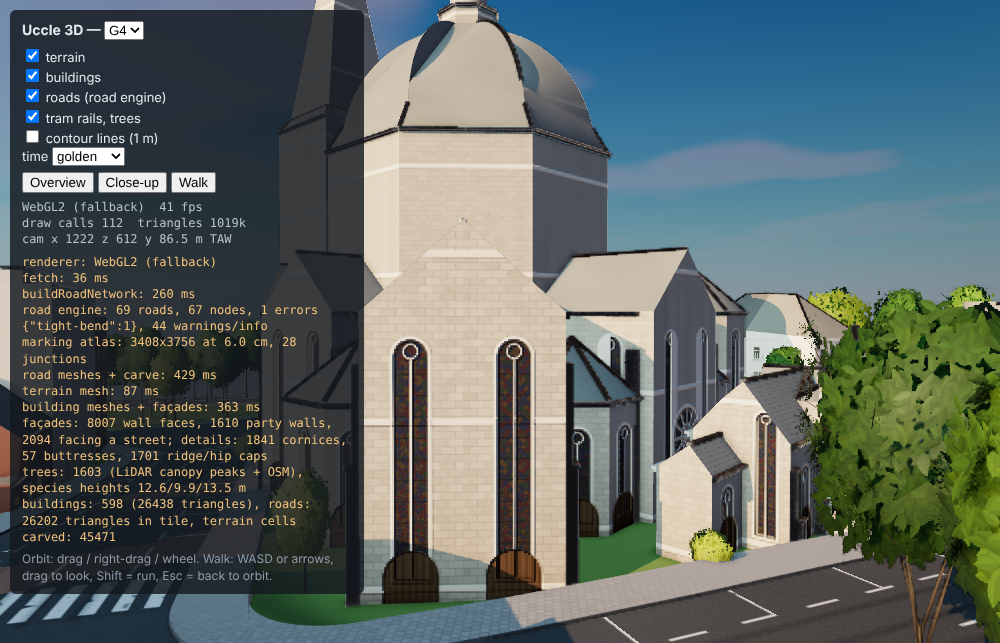
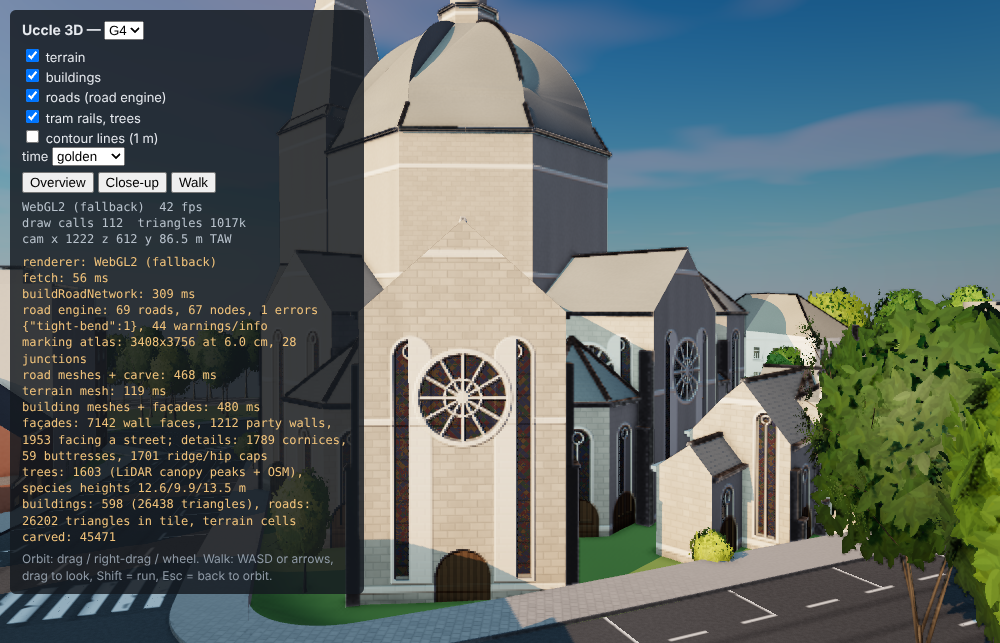
Merge coplanar wall faces; church rose window on the main front, placed high in the gable
Claude-Session: https://claude.ai/code/session_017uqA5oYspyvsgJQSxLERkX

diff --git a/viewer/facades.js b/viewer/facades.js
@@ -253,8 +253,26 @@ export function analyseBuildings(doc, buf, roads) {
       if (!faces.has(k)) faces.set(k, { tris: [], nx: nx / h, nz: nz / h });
       faces.get(k).tris.push({ p, n: tri.n, src: tri });
     }
+    // merge faces of one plane split by the key rounding (same direction within ~3°, offset within 0.3 m,
+    // touching along the face): a gable front must be ONE face so its openings are laid out once
+    const fl = [...faces.values()];
+    for (const f of fl) {
+      const tx = -f.nz, tz = f.nx;
+      let u0 = Infinity, u1 = -Infinity, dd = 0, k = 0;
+      for (const { p } of f.tris) for (const q of p) { const uu = q[0] * tx + q[2] * tz; u0 = Math.min(u0, uu); u1 = Math.max(u1, uu); dd += q[0] * f.nx + q[2] * f.nz; k++; }
+      f.u0 = u0; f.u1 = u1; f.d = dd / k;
+    }
+    for (let i = 0; i < fl.length; i++) {
+      const a = fl[i]; if (a.dead) continue;
+      for (let j = i + 1; j < fl.length; j++) {
+        const c = fl[j]; if (c.dead) continue;
+        if (a.nx * c.nx + a.nz * c.nz < 0.9985 || Math.abs(a.d - c.d) > 0.3) continue;
+        if (c.u0 > a.u1 + 0.15 || a.u0 > c.u1 + 0.15) continue;
+        a.tris.push(...c.tris); a.u0 = Math.min(a.u0, c.u0); a.u1 = Math.max(a.u1, c.u1); c.dead = true; j = i;   // rescan
+      }
+    }
     const ownRing = b.footprint[0];
-    for (const f of faces.values()) {
+    for (const f of fl.filter((q) => !q.dead)) {
       // outward: a point 0.5 m along the normal must be outside the building's own footprint
       {
         let mx = 0, mz = 0, k = 0;
@@ -601,7 +619,7 @@ export function wallMaterial() {
   const bwL = fw.div(nbL);
   const lxC = u.sub(fw.mul(0.5)).toVar();                                       // from the middle of the face
   const roseFace = street.mul(step(float(10.0), eh)).mul(float(1).sub(step(float(6.1), style))).mul(step(float(4.5), fw)).toVar();
-  const R = min(min(float(1.7), fw.mul(0.2)), min(eh.sub(1.5), float(13.4)).sub(4.6).sub(0.9).mul(0.5)).toVar();
+  const R = min(min(float(2.1), fw.mul(0.21)), min(eh.sub(1.5), float(13.4)).sub(4.6).sub(0.9).mul(0.5)).toVar();
   const roseBay = roseFace.mul(step(float(0.6), R)).mul(step(abs(lxC), R.add(0.45))).toVar();   // lancets give way to the rose
   const lx = fract(u.div(bwL)).sub(0.5).mul(bwL).toVar();
   const hwL = mix(min(float(0.7), bwL.mul(0.21)), min(float(0.8), fw.mul(0.17)), tower).toVar();
@@ -663,7 +681,7 @@ export function wallMaterial() {
   lmCol = mix(lmCol, wood, portal);
   lmH = lmH.sub(portal.mul(0.3));
   // rose window above the portal: 12 spokes, an inner ring, a hub, a moulded surround; glass set back by parallax
-  const cyR = pTop.add(0.7).add(R).toVar();
+  const cyR = max(pTop.add(0.7).add(R), min(eh.sub(1.5), float(13.4)).sub(R).sub(0.6)).toVar();   // high in the gable, clear of the portal
   const roseOk = roseFace.mul(lmOk).mul(step(float(0.6), R)).toVar();
   const rr = length(vec2(lxC, h.sub(cyR))).toVar();
   const aaR = fwidth(rr).add(0.003);

diff --git a/docs/PLAN.md b/docs/PLAN.md
@@ -370,9 +370,11 @@ modular kits**, and real data only decides **which material goes where**.
    above the portal on wide street faces, louvred belfry openings on tower solids
    (landmark solids under 11 m across and over 16 m tall, style 6.25).
    Screenshot `docs/img/viewer-G4-church-front.png`.
-   **Next for the church:** the front gable of Saint-Job is split into two UrbIS faces,
-   so it gets two lancets and two portals instead of the rose: merge coplanar
-   neighbouring faces of a landmark before placing openings; check materials against a photo.
+   Coplanar wall faces split by the grouping's rounding are now merged (all buildings;
+   G4 8,007 → 7,142 faces), so the Saint-Job front is one face: one portal, the rose
+   window high in the gable, lancets either side.
+   **Next for the church:** check materials against a photo; the drum and dome could
+   use their own windows (oculi) and lantern detail.
 
 3. **Ground materials.** UrbIS **Land cover** (CC0, same 1 km sheets) plus OSM
    areas say where grass, garden, paving, water and woodland are. Tiling grass,

diff --git a/HANDOFF.md b/HANDOFF.md
@@ -40,8 +40,8 @@ Pipeline (raw data must be fetched first, see README): `python pipeline/run_tile
 1. **Check on a real GPU (WebGPU)** in a browser: performance with all trees (1,600 per tile,
    47k total), the night-window speckle seen in software rendering, buttress/cornice look.
 2. **Church**: done: deep (parallax) openings, tracery, rose window, belfry louvres,
-   buttresses, ribs. Left: merge the split front-gable faces so the rose window lands on
-   the main front (see PLAN), compare materials with a photo of Saint-Job.
+   buttresses, ribs. Rose window on the main front. Left: compare materials with a photo of
+   Saint-Job, oculi on the dome drum, lantern detail.
 3. **Houses**: chimneys, roof eaves overhang, shopfronts from OSM `shop=*`, gable attic
    windows, parallax window reveals.
 4. **Night and props**: street lamps (pooled lights), benches, bus/tram stops, signals,
